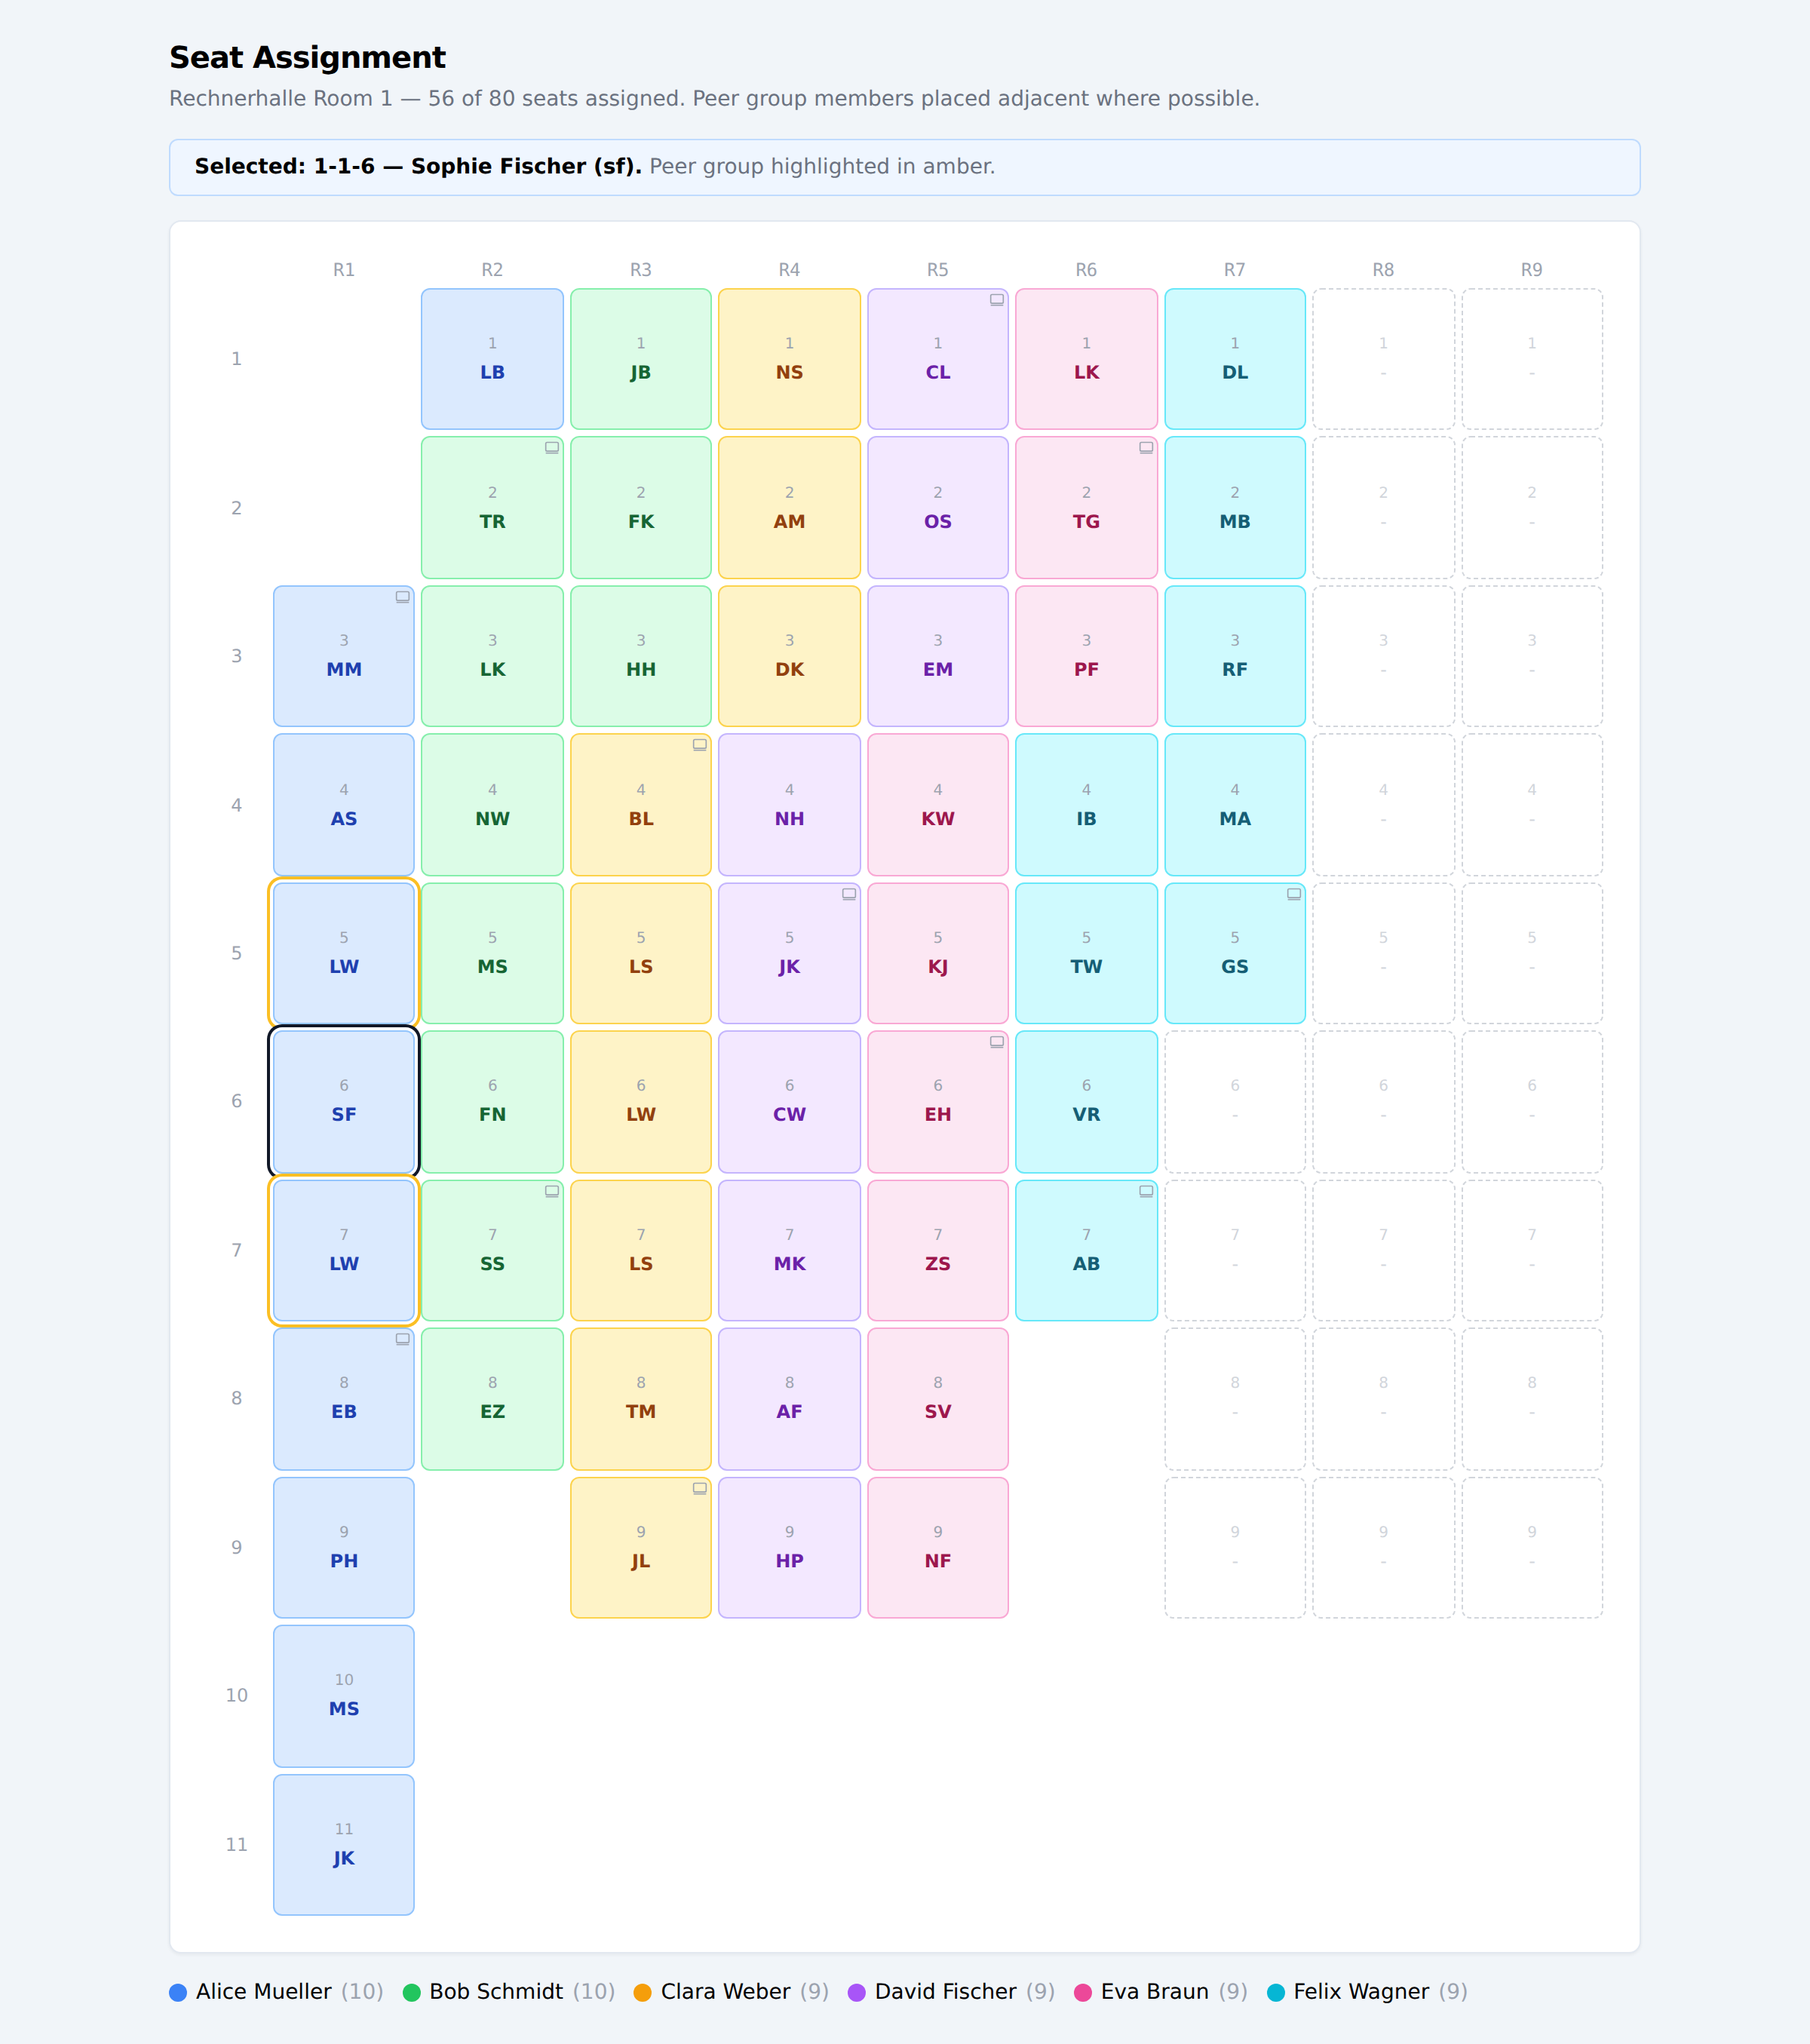
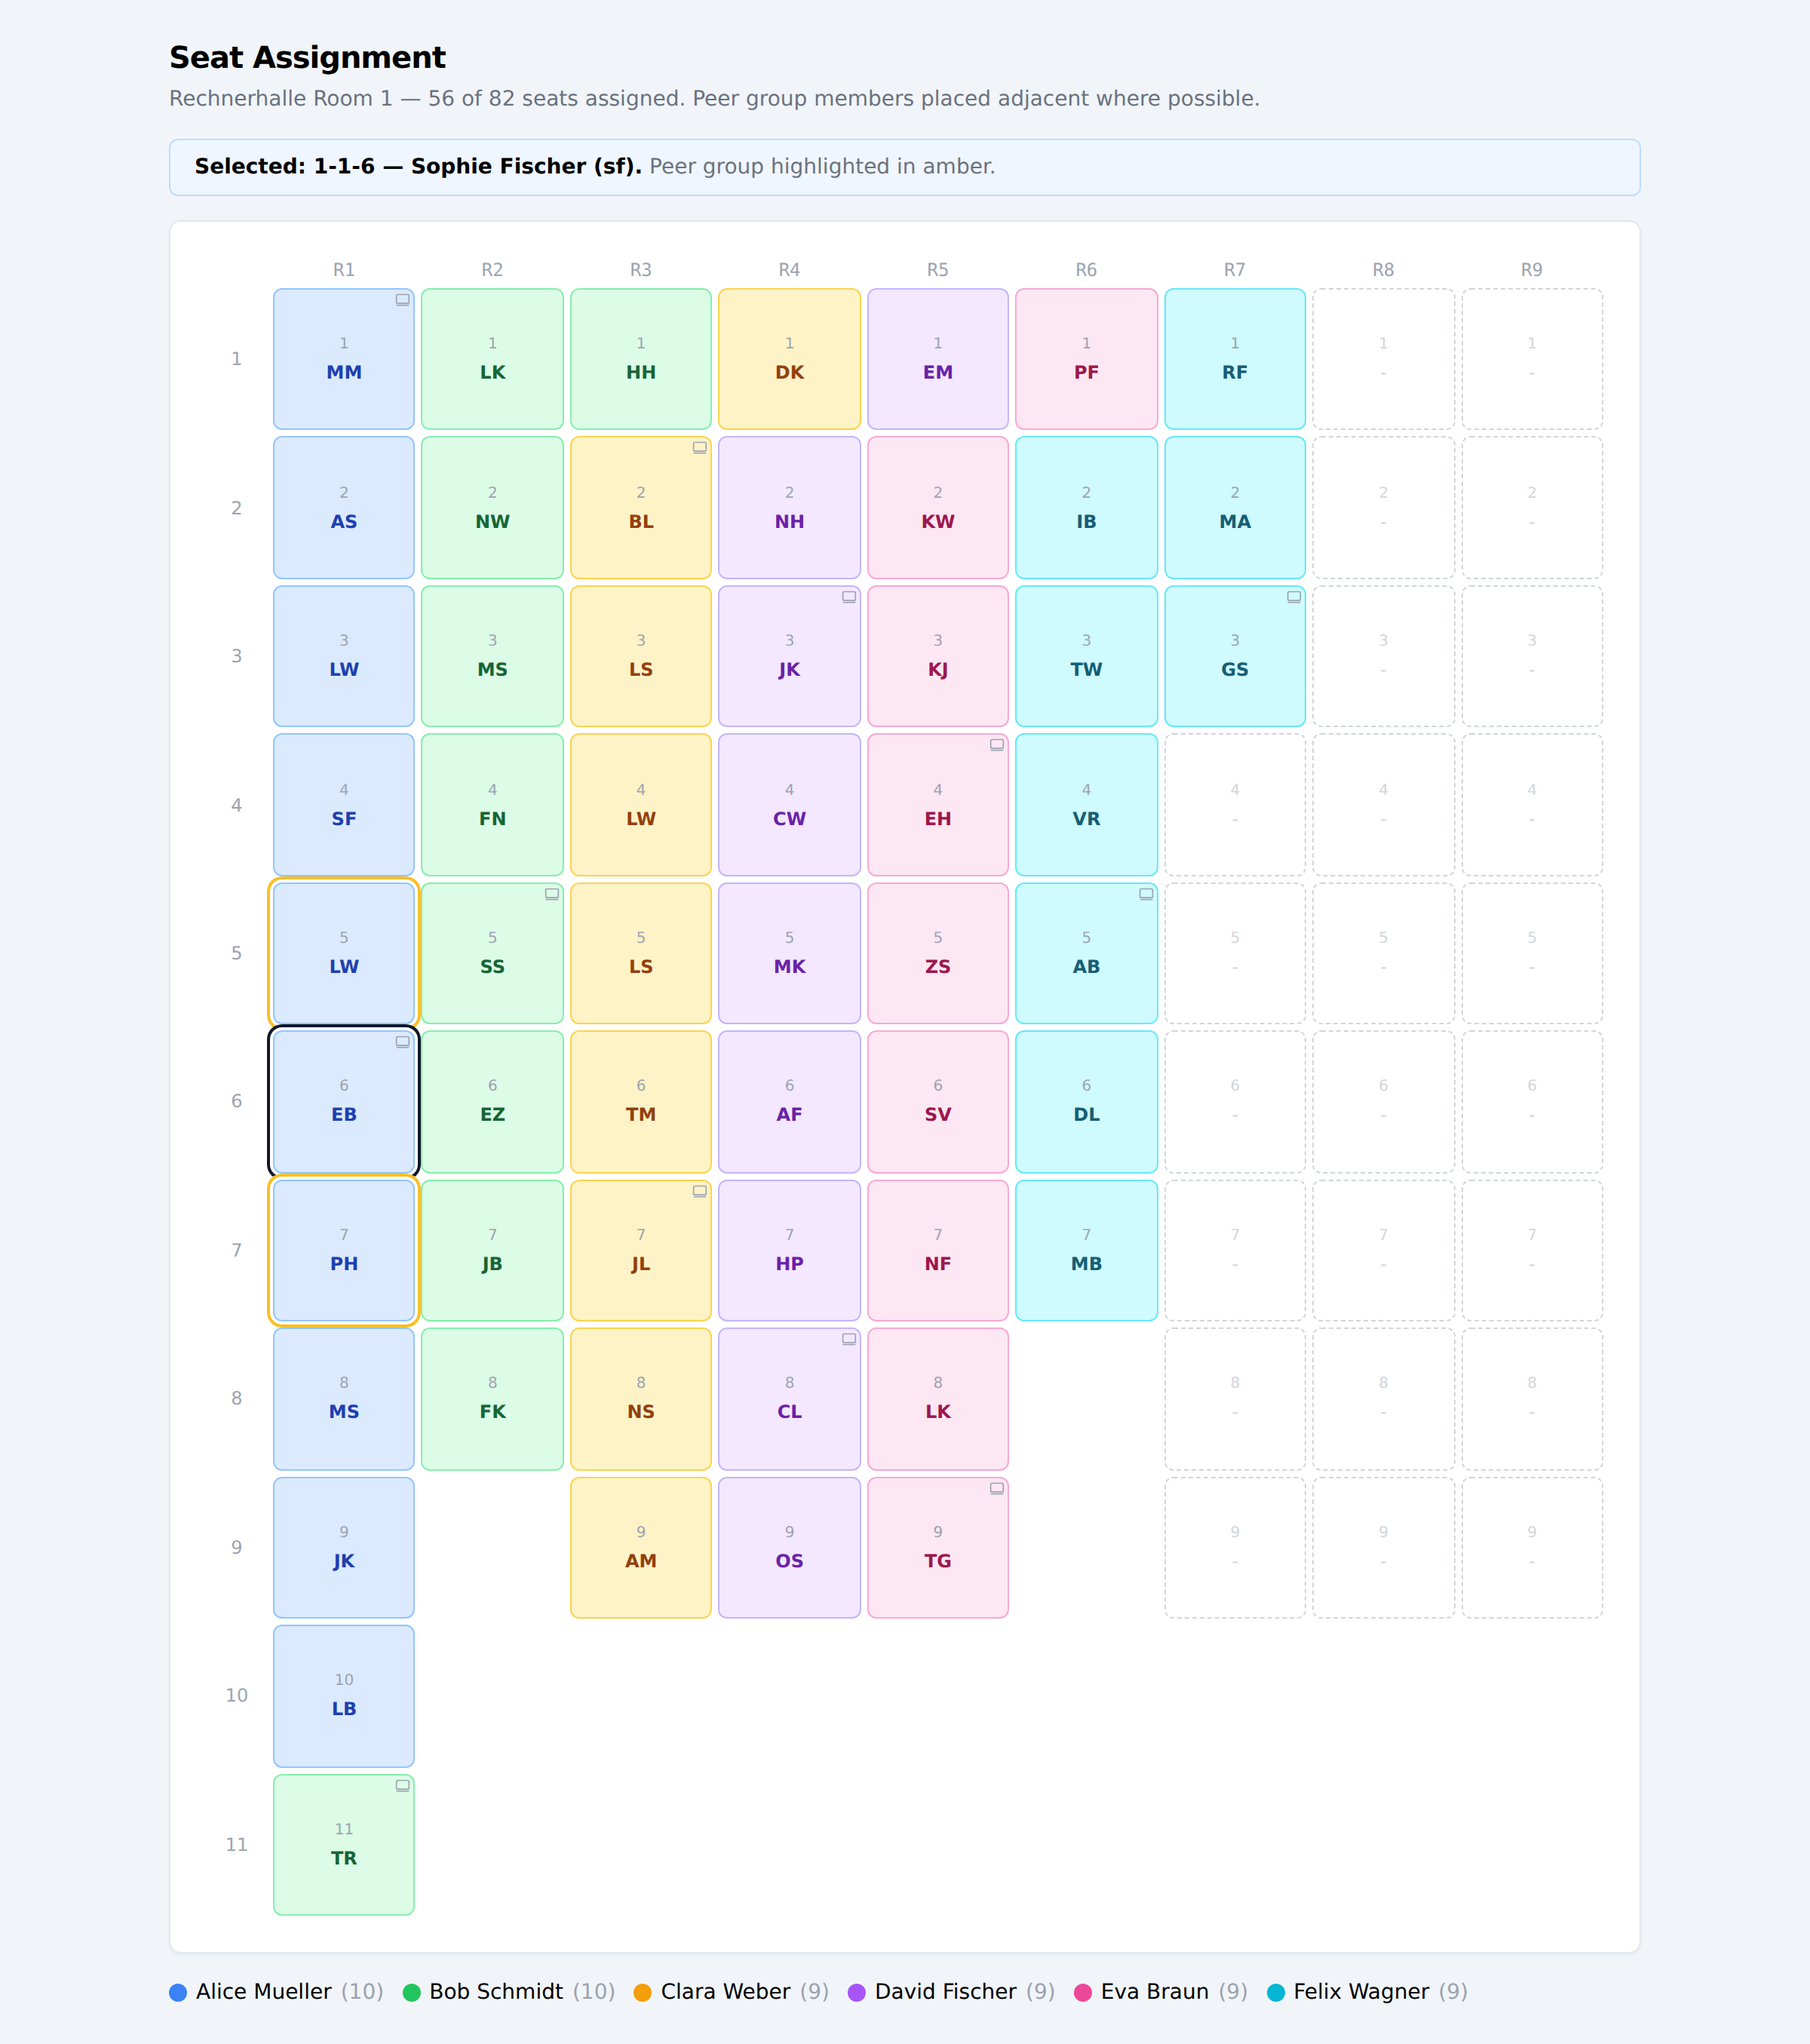
Fix prop mutation in SeatTutorAssigner, add query enabled guards
- SeatTutorAssigner: clone seat objects before mutating assignedTutor
  instead of directly mutating props (could cause stale React state)
- SeatAssignmentPage: add enabled: !!phaseId to all 5 useQuery calls
  to prevent firing with empty string when route params unavailable
- Update screenshots for corrected 82-seat layout

Changed region(s): [[0.3125, 0.155, 0.5312, 0.372], [0.5312, 0.186, 0.7188, 0.5269], [0.125, 0.124, 0.25, 0.31]]

diff --git a/client/src/introCourse/pages/SeatAssignment/components/SeatTutorAssigner/SeatTutorAssigner.tsx b/client/src/introCourse/pages/SeatAssignment/components/SeatTutorAssigner/SeatTutorAssigner.tsx
@@ -35,20 +35,16 @@ export const SeatTutorAssigner = ({ seats, tutors, numberOfStudents }: SeatTutor
   const mutation = useUpdateSeats(setError)
 
   const handleTutorAssignment = (seatName: string, tutorId: string | null) => {
-    const updatedSeat = seats.find((seat) => seat.seatName === seatName)
-    if (!updatedSeat) return
-    updatedSeat.assignedTutor = tutorId
-    mutation.mutate([updatedSeat])
+    const seat = seats.find((seat) => seat.seatName === seatName)
+    if (!seat) return
+    mutation.mutate([{ ...seat, assignedTutor: tutorId }])
   }
 
   const handleBatchTutorAssignment = (tutorId: string | null) => {
-    const updatedSeats: Seat[] = []
-    selectedSeatNames.forEach((seatName) => {
-      const toBeUpdatedSeat = seats.find((seat) => seat.seatName === seatName)
-      if (!toBeUpdatedSeat) return
-      toBeUpdatedSeat.assignedTutor = tutorId
-      updatedSeats.push(toBeUpdatedSeat)
-    })
+    const updatedSeats = selectedSeatNames
+      .map((seatName) => seats.find((seat) => seat.seatName === seatName))
+      .filter((seat): seat is Seat => seat != null)
+      .map((seat) => ({ ...seat, assignedTutor: tutorId }))
 
     mutation.mutate(updatedSeats)
     setSelectedSeatNames([])

diff --git a/client/src/introCourse/pages/SeatAssignment/SeatAssignmentPage.tsx b/client/src/introCourse/pages/SeatAssignment/SeatAssignmentPage.tsx
@@ -33,6 +33,7 @@ export const SeatAssignmentPage = () => {
   } = useQuery<Tutor[]>({
     queryKey: ['tutors', phaseId],
     queryFn: () => getAllTutors(phaseId ?? ''),
+    enabled: !!phaseId,
   })
 
   const {
@@ -43,6 +44,7 @@ export const SeatAssignmentPage = () => {
   } = useQuery<CoursePhaseParticipationsWithResolution>({
     queryKey: ['participants', phaseId],
     queryFn: () => getCoursePhaseParticipations(phaseId ?? ''),
+    enabled: !!phaseId,
   })
 
   const {
@@ -53,6 +55,7 @@ export const SeatAssignmentPage = () => {
   } = useQuery<DeveloperProfile[]>({
     queryKey: ['developerProfiles', phaseId],
     queryFn: () => getAllDeveloperProfiles(phaseId ?? ''),
+    enabled: !!phaseId,
   })
 
   const {
@@ -63,11 +66,13 @@ export const SeatAssignmentPage = () => {
   } = useQuery<Seat[]>({
     queryKey: ['seatPlan', phaseId],
     queryFn: () => getSeatPlan(phaseId ?? ''),
+    enabled: !!phaseId,
   })
 
   const { data: peerAssignments } = useQuery<PeerAssignment[]>({
     queryKey: ['peerAssignments', phaseId],
     queryFn: () => getPeerAssignments(phaseId ?? ''),
+    enabled: !!phaseId,
   })
 
   const isPending =
